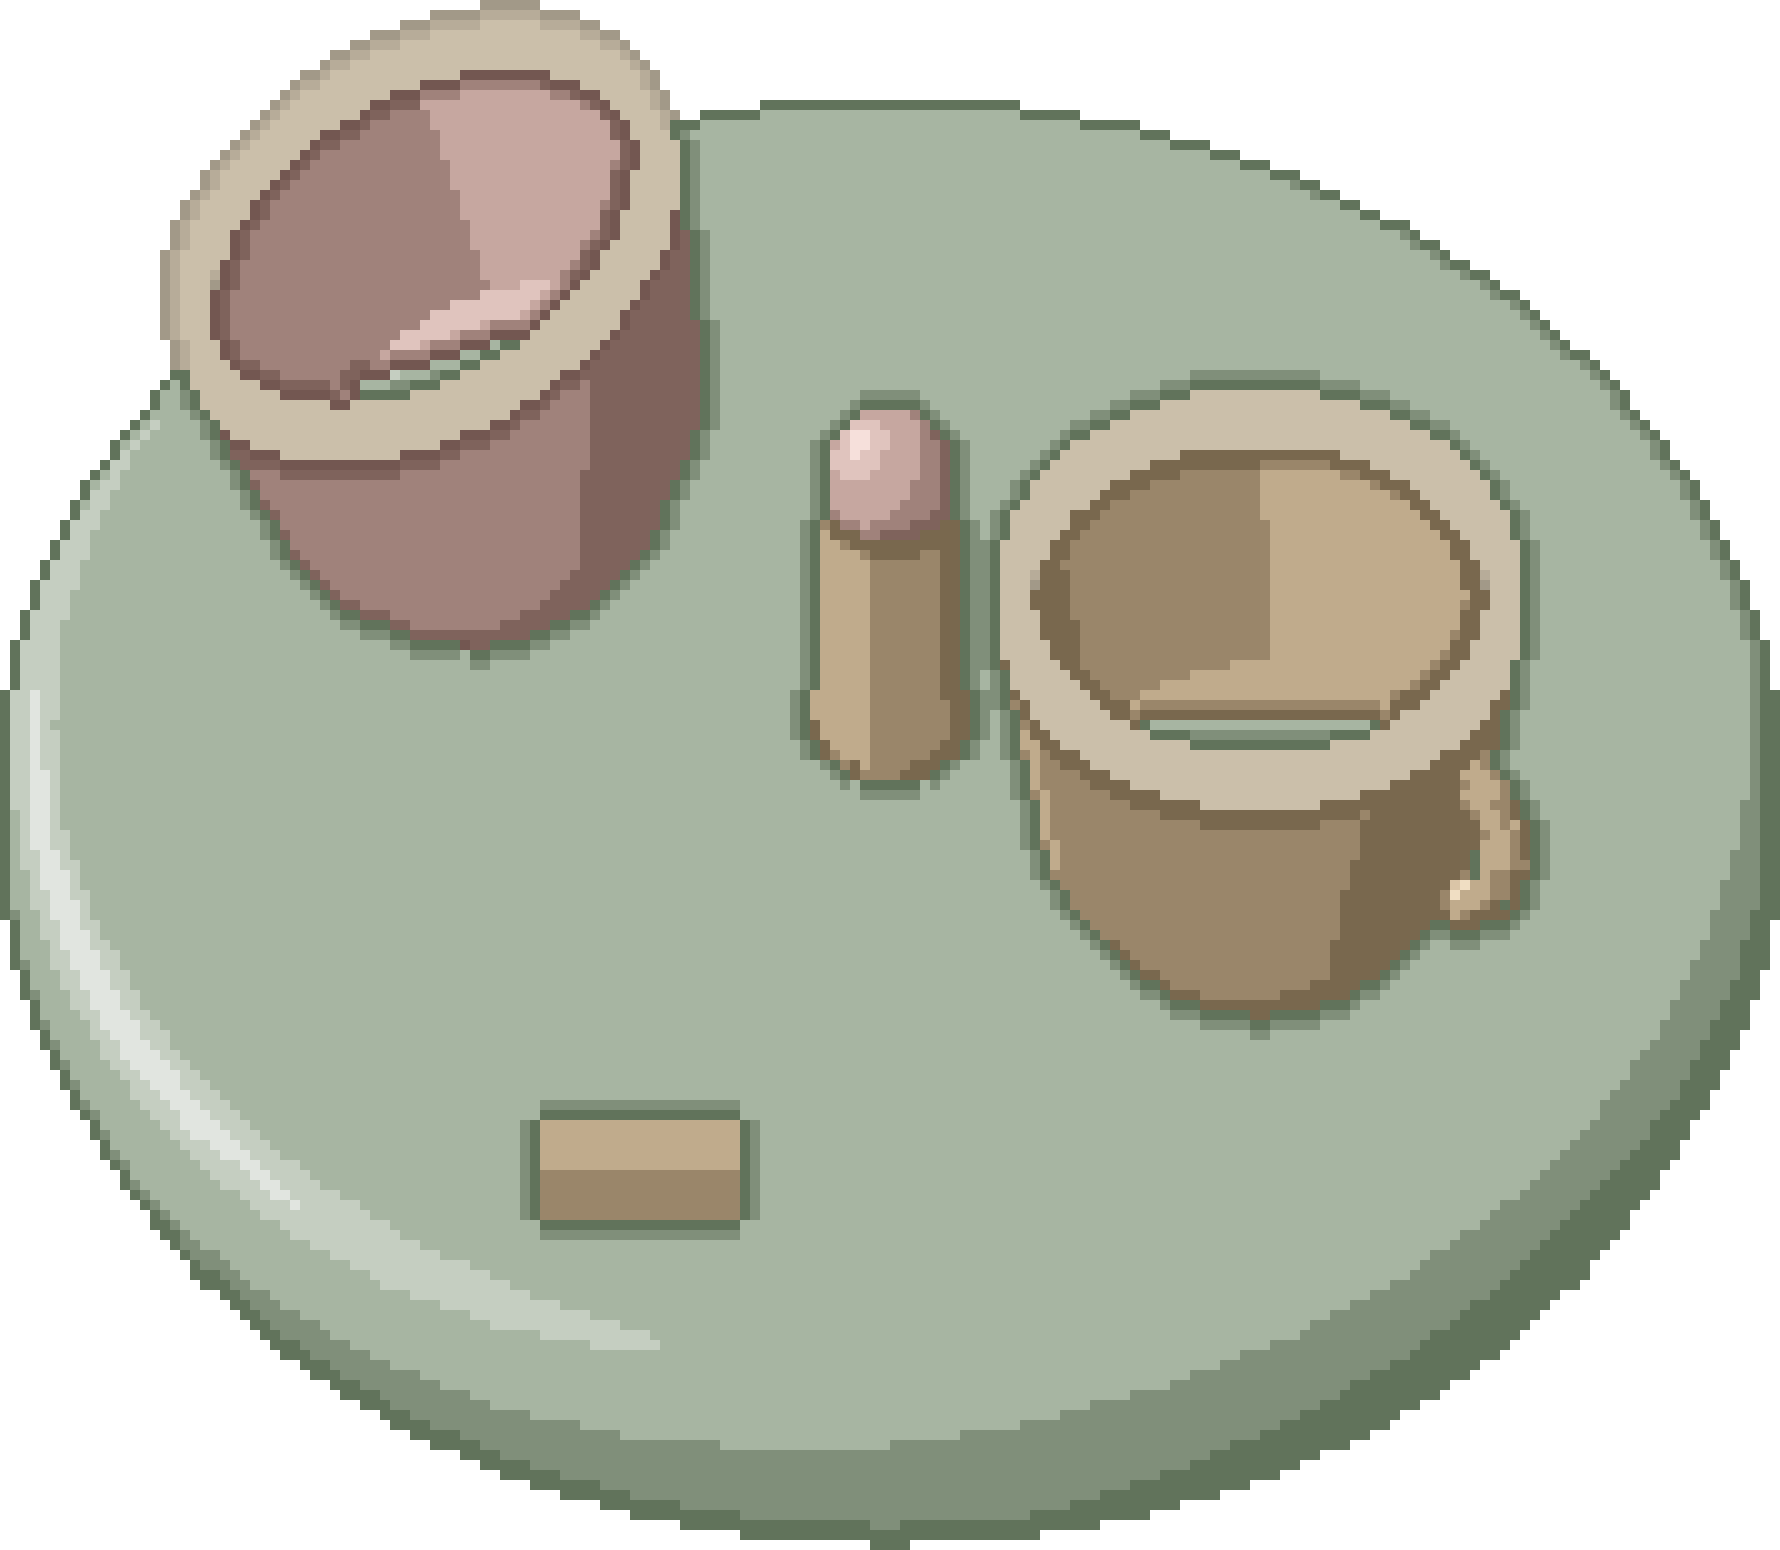
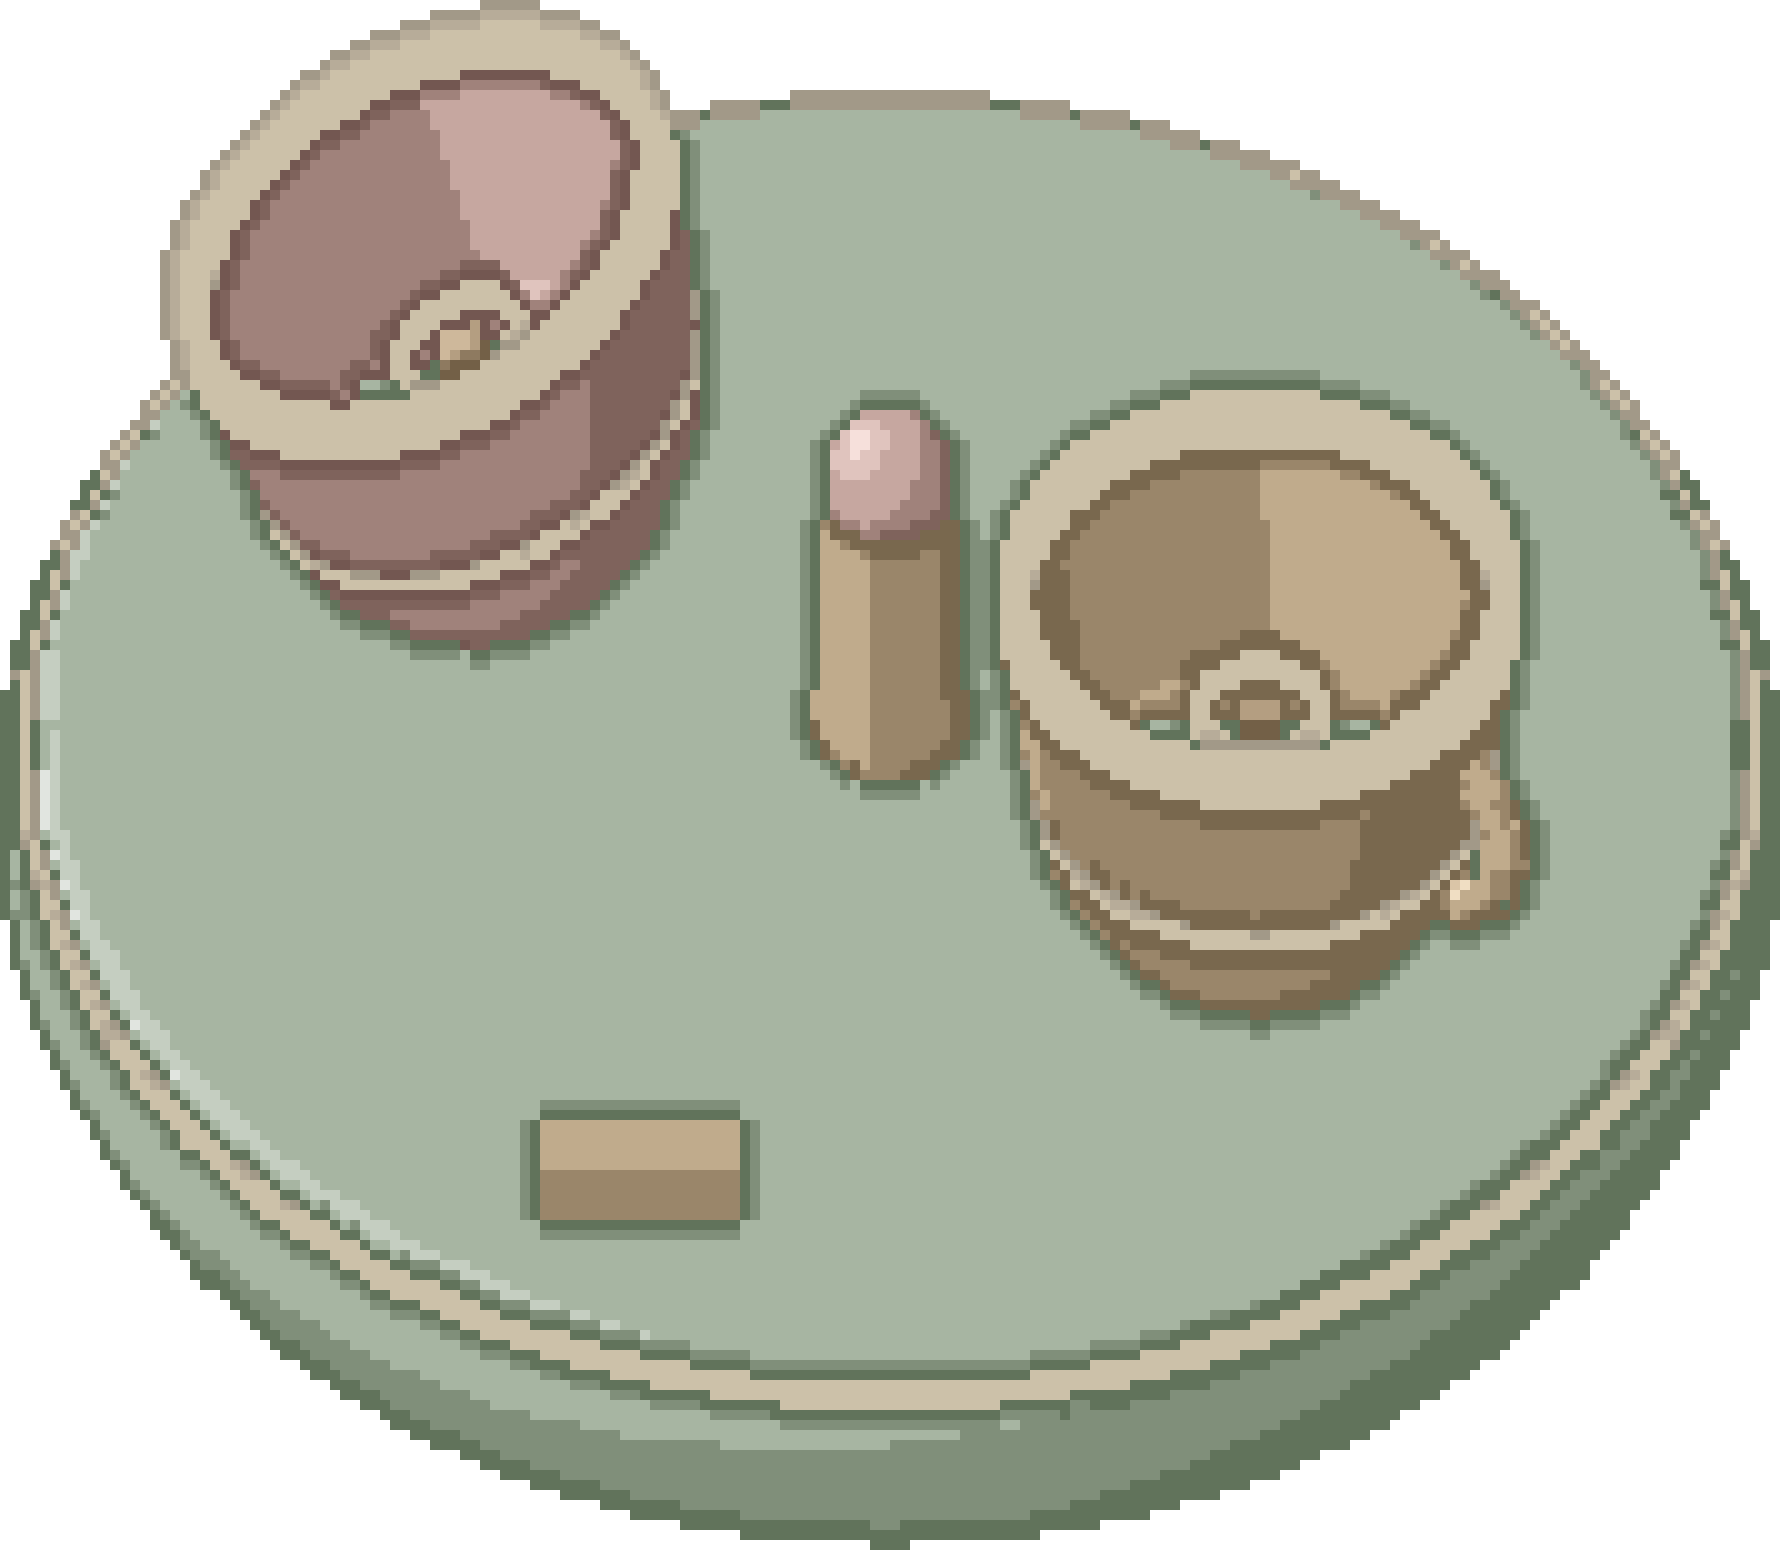
遊具の木目と部品の細部を加える

diff --git a/tools/art/handoff3d/rides.py b/tools/art/handoff3d/rides.py
@@ -12,7 +12,9 @@
 つなぐ。半径1.55の二重の輪を8本のスポークで車軸に固定。
 4個のゴンドラを輪の横軸に吊り、座面を横軸の0.49下に置く。
 """
-from math import cos, sin, tau
+from math import cos, sin, sqrt, tau
+
+from common import WOOD
 
 PINK = (241, 164, 180)
 CREAM = (255, 241, 211)
@@ -20,6 +22,8 @@ MINT = (143, 208, 186)
 GOLD = (222, 176, 116)
 TRIM = (168, 118, 111)
 BLUE = (206, 233, 231)
+BRASS = (184, 136, 83)
+LEATHER = (159, 102, 95)
 SEATS = {"merry": 3, "cup": 2, "skyswing": 3, "wheel": 4}
 SPEED = {"merry": 1, "cup": 1.3, "skyswing": 1, "wheel": .35}
 
@@ -30,8 +34,15 @@ def polar(radius, angle, z):
 
 def carousel(m, phase, broken, seats):
     m.lathe([(0, 0), (1.23, 0), (1.29, .08), (1.29, .24),
-             (1.24, .30), (0, .30)], GOLD)
-    m.rod((0, 0, .24), (.13 if broken else 0, 0, 2.65), .075, GOLD)
+             (1.24, .255), (0, .255)], GOLD, surface="wood")
+    for i in range(-6, 7):
+        y = i*.18
+        half = sqrt(1.24**2-(abs(y)+.084)**2)
+        m.box((-half, y-.084, .254), (half, y+.084, .30), WOOD)
+    m.rod((0, 0, .24), (.13 if broken else 0, 0, 2.65), .075, GOLD, surface="wood")
+    for z in (.34, .47, 1.95):
+        m.lathe([(.082, z), (.105, z), (.105, z+.04), (.082, z+.04)],
+                BRASS, z*.05 if broken else 0, surface="metal")
     roof_x = .18 if broken else 0
     for panel in range(12):
         if broken and panel in (1, 2):
@@ -41,10 +52,12 @@ def carousel(m, phase, broken, seats):
         x, y, z = polar(1.31, a, 2.14 + .10 * cos(a) * broken)
         u, v, w = polar(1.31, b, 2.14 + .10 * cos(b) * broken)
         color = PINK if panel % 2 else CREAM
-        m.part(color)
+        m.part(color, surface="cloth")
         m.sc.tri((roof_x, 0, 2.65), (x, y, z), (u, v, w), m.color(color))
         m.sc.quad((x, y, z), (u, v, w), (u, v, w-.10),
                   (x, y, z-.10), m.color(color))
+        m.rod((x, y, z-.095), (u, v, w-.095), .019, GOLD)
+        m.rod((roof_x, 0, 2.65), (x, y, z+.015), .014, CREAM)
     m.ball((roof_x, 0, 2.69), .09, GOLD)
     for index in range(3):
         angle = phase + index * tau / 3
@@ -61,6 +74,11 @@ def carousel(m, phase, broken, seats):
         m.rod(horse(-.17, 0), horse(.15, 0), .115, CREAM)
         m.rod(horse(.12, .02), horse(.18, .25), .065, CREAM)
         m.rod(horse(.15, .23), horse(.30, .19), .065, CREAM)
+        m.rod(horse(.15, .23), horse(.13, .32), .027, CREAM)
+        m.rod(horse(-.16, .025), horse(-.32, -.13), .038, GOLD)
+        m.rod(horse(.095, .15), horse(.145, .247), .028, GOLD)
+        m.ball(horse(.235, .234), .025, LEATHER)
+        m.rod(horse(.205, .15), horse(.27, .20), .017, LEATHER)
         for along in (-.12, .13):
             m.rod(horse(along, -.03), horse(along-.05, -.28), .039, CREAM)
         m.rod(horse(-.075, .105), horse(.075, .105), .045, PINK)
@@ -74,6 +92,9 @@ def cups(m, phase, broken, seats):
              (1.30, .30), (0, .30)], MINT)
     m.lathe([(0, .30), (.12, .30), (.10, .67), (0, .69)], GOLD)
     m.ball((0, 0, .70), .10, PINK)
+    m.lathe([(1.29,.231),(1.37,.231),(1.36,.265),(1.29,.265)], CREAM)
+    for i in range(12):
+        m.ball(polar(1.29, i*tau/12, .262), .025, BRASS, surface="metal")
     for index in range(2):
         angle = phase + index * tau / 2
         x, y, _ = polar(.70, angle, 0)
@@ -82,9 +103,15 @@ def cups(m, phase, broken, seats):
         first = m.sc.pid
         m.lathe([(0, z), (.24, z), (.34, z+.13), (.41, z+.47),
                  (.355, z+.47), (.295, z+.16), (0, z+.16)], color, x, y)
+        m.lathe([(.344, z+.20), (.365, z+.20), (.369, z+.23),
+                 (.349, z+.23)], CREAM, x, y)
         m.lathe([(.357, z+.47), (.412, z+.47), (.412, z+.52),
                  (.357, z+.52), (.357, z+.47)], CREAM, x, y)
         m.box((x-.19, y-.10, z+.16), (x+.19, y+.05, z+.22), MINT)
+        m.rod((x,y,z+.15), (x,y,z+.31), .033, BRASS, surface="metal")
+        wheel = [(x+.095*cos(i*tau/20), y+.095*sin(i*tau/20), z+.31)
+                 for i in range(21)]
+        m.tube(wheel, .018, CREAM)
         if not (broken and index == 1):
             m.tube([(x+(.34+.13*sin(k*tau/16))*cos(angle),
                      y+(.34+.13*sin(k*tau/16))*sin(angle),
@@ -100,10 +127,17 @@ def swing(m, phase, broken, seats):
     m.lathe([(0, 0), (.68, 0), (.72, .11), (.67, .22),
              (.31, .27), (0, .27)], GOLD)
     top = (.23 if broken else 0, 0, 4.16)
-    m.rod((0, 0, .22), top, .079, GOLD)
+    m.rod((0, 0, .22), top, .079, GOLD, surface="metal")
+    m.lathe([(.13,.22),(.23,.22),(.19,.34),(.16,.49),(.10,.49)],
+            BRASS, surface="metal")
+    for i in range(6):
+        m.ball(polar(.59, i*tau/6, .216), .029, BRASS, surface="metal")
     m.lathe([(0, 4.04), (.74, 4.04), (.78, 4.17), (.71, 4.25),
              (.10, 4.42), (0, 4.42)], PINK, top[0])
     m.ball((top[0], 0, 4.48), .081, CREAM)
+    for i in range(12):
+        x, y, z = polar(.742, i*tau/12, 4.17)
+        m.ball((x+top[0], y, z), .041, CREAM)
     for index in range(3):
         angle = phase + index * tau / 3
         x, y, z = polar(1.20 if not broken else .81, angle, 1.57)
@@ -115,16 +149,31 @@ def swing(m, phase, broken, seats):
             m.rod((hx+top[0]+side*.09, hy, hz),
                   (x+side*.15, y, z+.03), .019, MINT)
         m.box((x-.19, y-.12, z-.05), (x+.19, y+.12, z+.04), PINK)
-        m.box((x-.19, y-.13, z+.04), (x+.19, y-.08, z+.21), CREAM)
+        m.box((x-.19, y-.13, z+.04), (x+.19, y-.08, z+.21), CREAM,
+              surface="cloth")
+        for side in (-1, 1):
+            sx = x+side*.175
+            m.rod((sx,y-.10,z+.13), (sx,y+.095,z+.13), .024, PINK)
+            m.ball((sx,y+.09,z+.12), .026, CREAM)
         seats.append((x, y, z+.04))
 
 
 def wheel(m, phase, broken, seats):
     hub = (-.13 if broken else 0, -.40, 2.94)
-    m.box((-1.32, -.69, 0), (1.32, .69, .13), GOLD)
+    m.box((-1.32, -.69, 0), (1.32, .69, .13), GOLD, surface="wood")
+    for i in range(8):
+        y = -.65+i*.165
+        m.box((-1.31, y, .125), (1.31, y+.155, .161), WOOD)
+    m.box((-.35,.65,.024),(.35,.79,.077), WOOD)
+    m.box((-.35,.62,.074),(.35,.72,.119), WOOD)
     for side in (-1, 1):
         for y in (-.58, .51):
-            m.rod((side*1.06, y, .12), (hub[0], y, hub[2]), .089, MINT)
+            m.rod((side*1.06, y, .12), (hub[0], y, hub[2]), .089, MINT,
+                  surface="metal")
+            x = side*1.06
+            m.box((x-.15,y-.10,.144), (x+.15,y+.10,.21), BRASS)
+            for dx in (-.109, .109):
+                m.ball((x+dx,y,.21), .024, CREAM)
         m.rod((-1.08, side*.50, .71), (1.08, side*.50, .71), .047, GOLD)
     m.rod((hub[0], -.65, hub[2]), (hub[0], .55, hub[2]), .09, GOLD)
 
@@ -158,6 +207,11 @@ def wheel(m, phase, broken, seats):
         for dx in (-.25, .19):
             m.box((x+dx, -.07, z-.44), (x+dx+.06, .26, z-.23), color)
         m.box((x-.19, -.075, z-.44), (x+.19, -.025, z-.23), BLUE)
+        if not broken:
+            m.rod((x-.19,.253,z-.29), (x+.19,.253,z-.29), .018, color,
+                  surface="metal")
+        for dx in (-.15,.15):
+            m.ball((x+dx,.25,z-.466), .028, CREAM)
         seats.append((x, .12, z-.43))
     if broken:
         m.rod((-.96, .50, .16), (-1.23, .73, .23), .045, PINK)

diff --git a/tools/art/handoff3d/render.py b/tools/art/handoff3d/render.py
@@ -12,17 +12,29 @@ from PIL import Image, ImageDraw, ImageFont
 HERE = Path(__file__).resolve().parent
 ART = HERE.parent
 ROOT = ART.parents[1]
-sys.path[:0] = [str(ART), str(ART / "furn3d")]
+sys.path[:0] = [str(ART), str(ART / "furn3d"), str(ART / "kowaino3d")]
 import furntone
+from kw_tex import bump
 import oblique3d as O
 from blueprint import Part, build
 from furn3d import ELEV, FOV, FRAME, KEEP, LW
+from common import WOOD
 from rides import CREAM, MODELS, SEATS, SPEED
 
 SCALE = 64
 FRAMES = 16
 RIDE_EXT = (-1.90, 1.90, -5.85, 0.85)
 SMALL_EXT = (-.70, .70, -1.20, .49)
+
+TEXTURES = ART / "textures"
+SURFACES = {
+    "wood": O.Tex(TEXTURES / "wood049.png", flow=7, minrun=4,
+                  dark=(.23, .82), light=(.16, 1.12)),
+    "stone": O.Tex(TEXTURES / "rock030.png", span=.57, flow=3, minrun=3,
+                   dark=(.19, .91), light=(.13, 1.06)),
+    "metal": O.Tex(TEXTURES / "metal032.png", span=.65, flow=4, minrun=4),
+    "cloth": O.Tex(TEXTURES / "fabric026.png", span=.72, flow=5, minrun=4),
+}
 
 
 class Model:
@@ -36,44 +48,56 @@ class Model:
         return tuple(round(base*.32+paint*.68)
                      for base, paint in zip(color, (178, 168, 151)))
 
-    def part(self, color, smooth=False):
+    def material(self, color, smooth, surface):
+        surface = "wood" if surface is None and color == WOOD else surface
+        self.sc.texture(SURFACES.get(surface))
+        # The stone normal map follows world-space surfaces, including cut faces.
+        self.sc.bump(self.stone_relief() if surface == "stone" else None)
         self.sc.material("flat" if color == CREAM else None)
-        self.sc.smooth(smooth)
+        self.sc.smooth(smooth or surface == "stone")
+
+    def stone_relief(self):
+        sample = bump("rock", .65, self.sc.pid)
+
+        def relief(points, normals):
+            rough, brightness = sample(points, normals)
+            mixed = normals*.46 + rough*.54
+            mixed /= np.linalg.norm(mixed, axis=1, keepdims=True)
+            return mixed, .36 + brightness*.64
+
+        return relief
+
+    def part(self, color, *, surface=None):
+        self.material(color, False, surface)
         self.sc.part()
 
-    def lathe(self, profile, color, x=0, y=0):
-        self.sc.material("flat" if color == CREAM else None)
-        self.sc.smooth(True)
+    def lathe(self, profile, color, x=0, y=0, *, surface=None):
+        self.material(color, True, surface)
         self.sc.revolve(x, y, profile, lambda *_: self.color(color), n=40)
 
-    def rod(self, start, end, radius, color):
-        self.sc.material("flat" if color == CREAM else None)
-        self.sc.smooth(False)
+    def rod(self, start, end, radius, color, *, surface=None):
+        self.material(color, False, surface)
         self.sc.beam(start, end, radius, self.color(color))
 
-    def tube(self, points, radius, color):
-        self.sc.material("flat" if color == CREAM else None)
-        self.sc.smooth(False)
+    def tube(self, points, radius, color, *, surface=None):
+        self.material(color, False, surface)
         self.sc.tube(points, radius, self.color(color))
 
-    def box(self, start, end, color):
-        self.sc.material("flat" if color == CREAM else None)
-        self.sc.smooth(False)
+    def box(self, start, end, color, *, surface=None):
+        self.material(color, False, surface)
         self.sc.box(*start, *end, self.color(color), bevel=0)
 
-    def ball(self, center, radius, color):
-        self.sc.material("flat" if color == CREAM else None)
-        self.sc.smooth(True)
+    def ball(self, center, radius, color, *, surface=None):
+        self.material(color, True, surface)
         self.sc.sphere(*center, radius, self.color(color), n=16, m=8)
 
-    def prism(self, points, low, high, color):
-        self.sc.material("flat" if color == CREAM else None)
-        self.sc.smooth(False)
+    def prism(self, points, low, high, color, *, surface=None):
+        self.material(color, False, surface)
         build(self.sc, [Part("板", "prism", (points, low, high, "z"),
                              self.color(color))])
 
     def rock(self, x, y, z, width, height, angle, color):
-        self.part(color)
+        self.part(color, surface="stone")
         rings = [[(x+width*r*cos(angle+i*tau/5), y+width*r*sin(angle+i*tau/5),
                    z+dz) for i in range(5)]
                  for r, dz in ((.76, 0), (1, height*.45), (.55, height))]
@@ -112,7 +136,7 @@ def render(model, ext, ground, parallel=False):
     O.GRAD = True
     image = O.render_px(model.sc, projection, ext, depth, k=.80, k2=.90,
                         lw=LW, merge=0)
-    image = furntone.tone(image, dw=0, world=furntone.worldlight(KEEP))
+    image = furntone.tone(image, dw=0, streak=(.22, .13), world=furntone.worldlight(KEEP))
     anchor = tuple(round(v*SCALE) for v in (ext[0], ext[2]))
     bounds = image.getbbox()
     assert bounds and 0 < bounds[0] < bounds[2] < image.width, (bounds, ext)

diff --git a/handoff/from-gpt.md b/handoff/from-gpt.md
@@ -2,9 +2,11 @@
 
 ## いまの結果
 
+木目は Wood049、石肌は Rock030 の色と凹凸、金具は Metal032、布は Fabric026 を3Dの面にはった。リポジトリの CC0 テクスチャを使った。
+
 ### H-1 遊園地の遊具
 
-- メリーゴーラウンド、コーヒーカップ、空中ブランコ、観覧車を3Dで組み、動く絵とこわれた絵を写した。こわれた絵は、屋根板の欠け、カップの傾き、ちぎれた吊り材、切れた観覧車の輪で見分けられる。
+- メリーゴーラウンド、コーヒーカップ、空中ブランコ、観覧車を3Dで組み、動く絵とこわれた絵を写した。こわれた絵は、屋根板の欠け、カップの傾き、ちぎれた吊り材、切れた観覧車の輪で見分けられる。回転木馬には板張りの床と屋根の縫い目、カップには中のハンドル、空中ブランコには座席の手すり、観覧車には台の足金物と乗り口の段を足した。
 - 台、柱、屋根などの見え方が変わらないドットは `*_static.png`。動く部品とかくれ方で変わる部分は `*_motion.png`。静止画の上に各コマを重ね、完成コマの `*_frames.png` と全ドットが一致することを確認した。左から右、上から下へ16コマで1周。観覧車のゴンドラの座面は、どのコマでも水平。
 - 足もとは、元の絵の左上からメリーゴーラウンド、コーヒーカップ、空中ブランコがゲームの点で `(32,56)`、観覧車が `(48,56)`。以下はそこからの g64 のドット。右と下が正。ゲームの点に直すときは2で割る。
 
@@ -16,7 +18,7 @@
 | 観覧車 | `(99,-186)`, `(0,-91)`, `(-99,-186)`, `(0,-280)` |
 
 - 全16コマの座席の位置、絵の左上と大きさは [sprites.json](files/H-1/sprites.json)。`rideAng` に `phase_factor` をかけた角度を1周16等分してコマを選び、同じコマの `seats[コマ][座席番号]` を `windRidePose` に使う。前後の描画順は、実際にせいれいを乗せるときに確認する。
-- 8まいの見本を `chipcheck.py` で確認。14〜23色、半透明0、にた色0組。輪郭が2ドット以上の所は0〜456、孤立ドットは25〜281。色数、輪郭、細い線の点に目安を超える所がある。
+- 8まいの見本を `chipcheck.py` で確認。20〜25色、半透明0、にた色0組。輪郭が2ドット以上の所は4〜578、孤立ドットは69〜414。色数、輪郭、細い線の点に目安を超える所がある。
 - [仮の絵との比較](files/H-1/cmp_x4.png) ・ [遊具の設計図](../tools/art/handoff3d/rides.py)
 
 ゲームのマップでの確認とチップへの登録は、絵の確認のあと。
